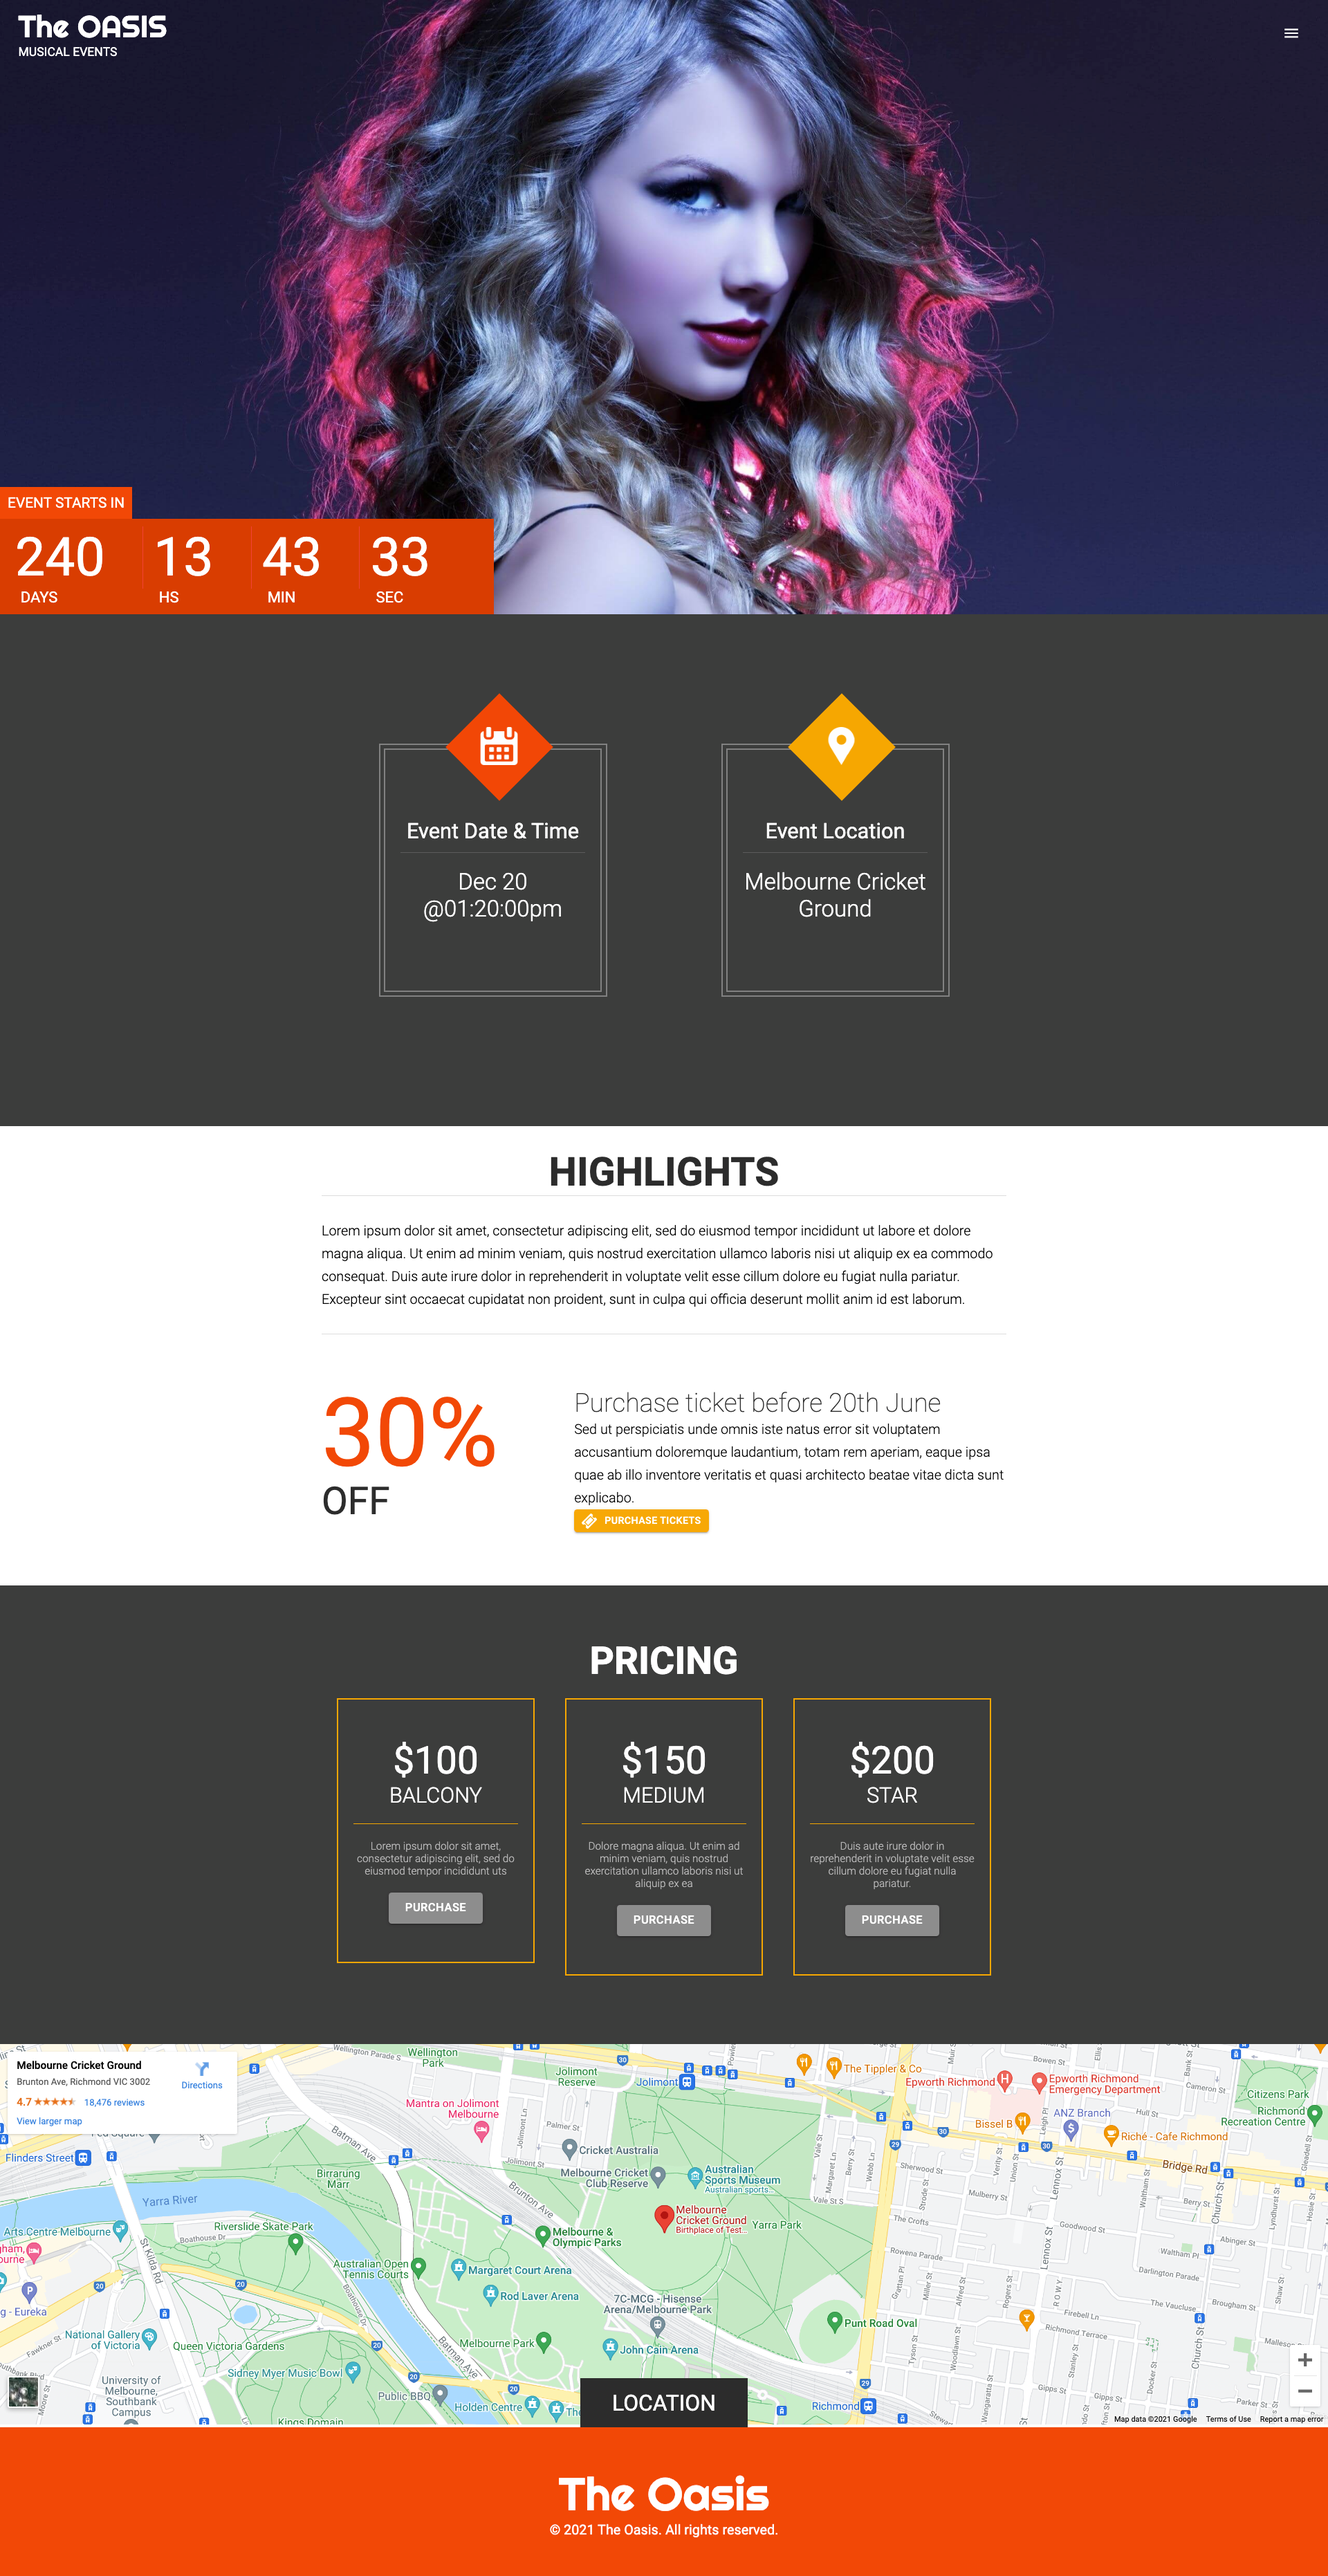
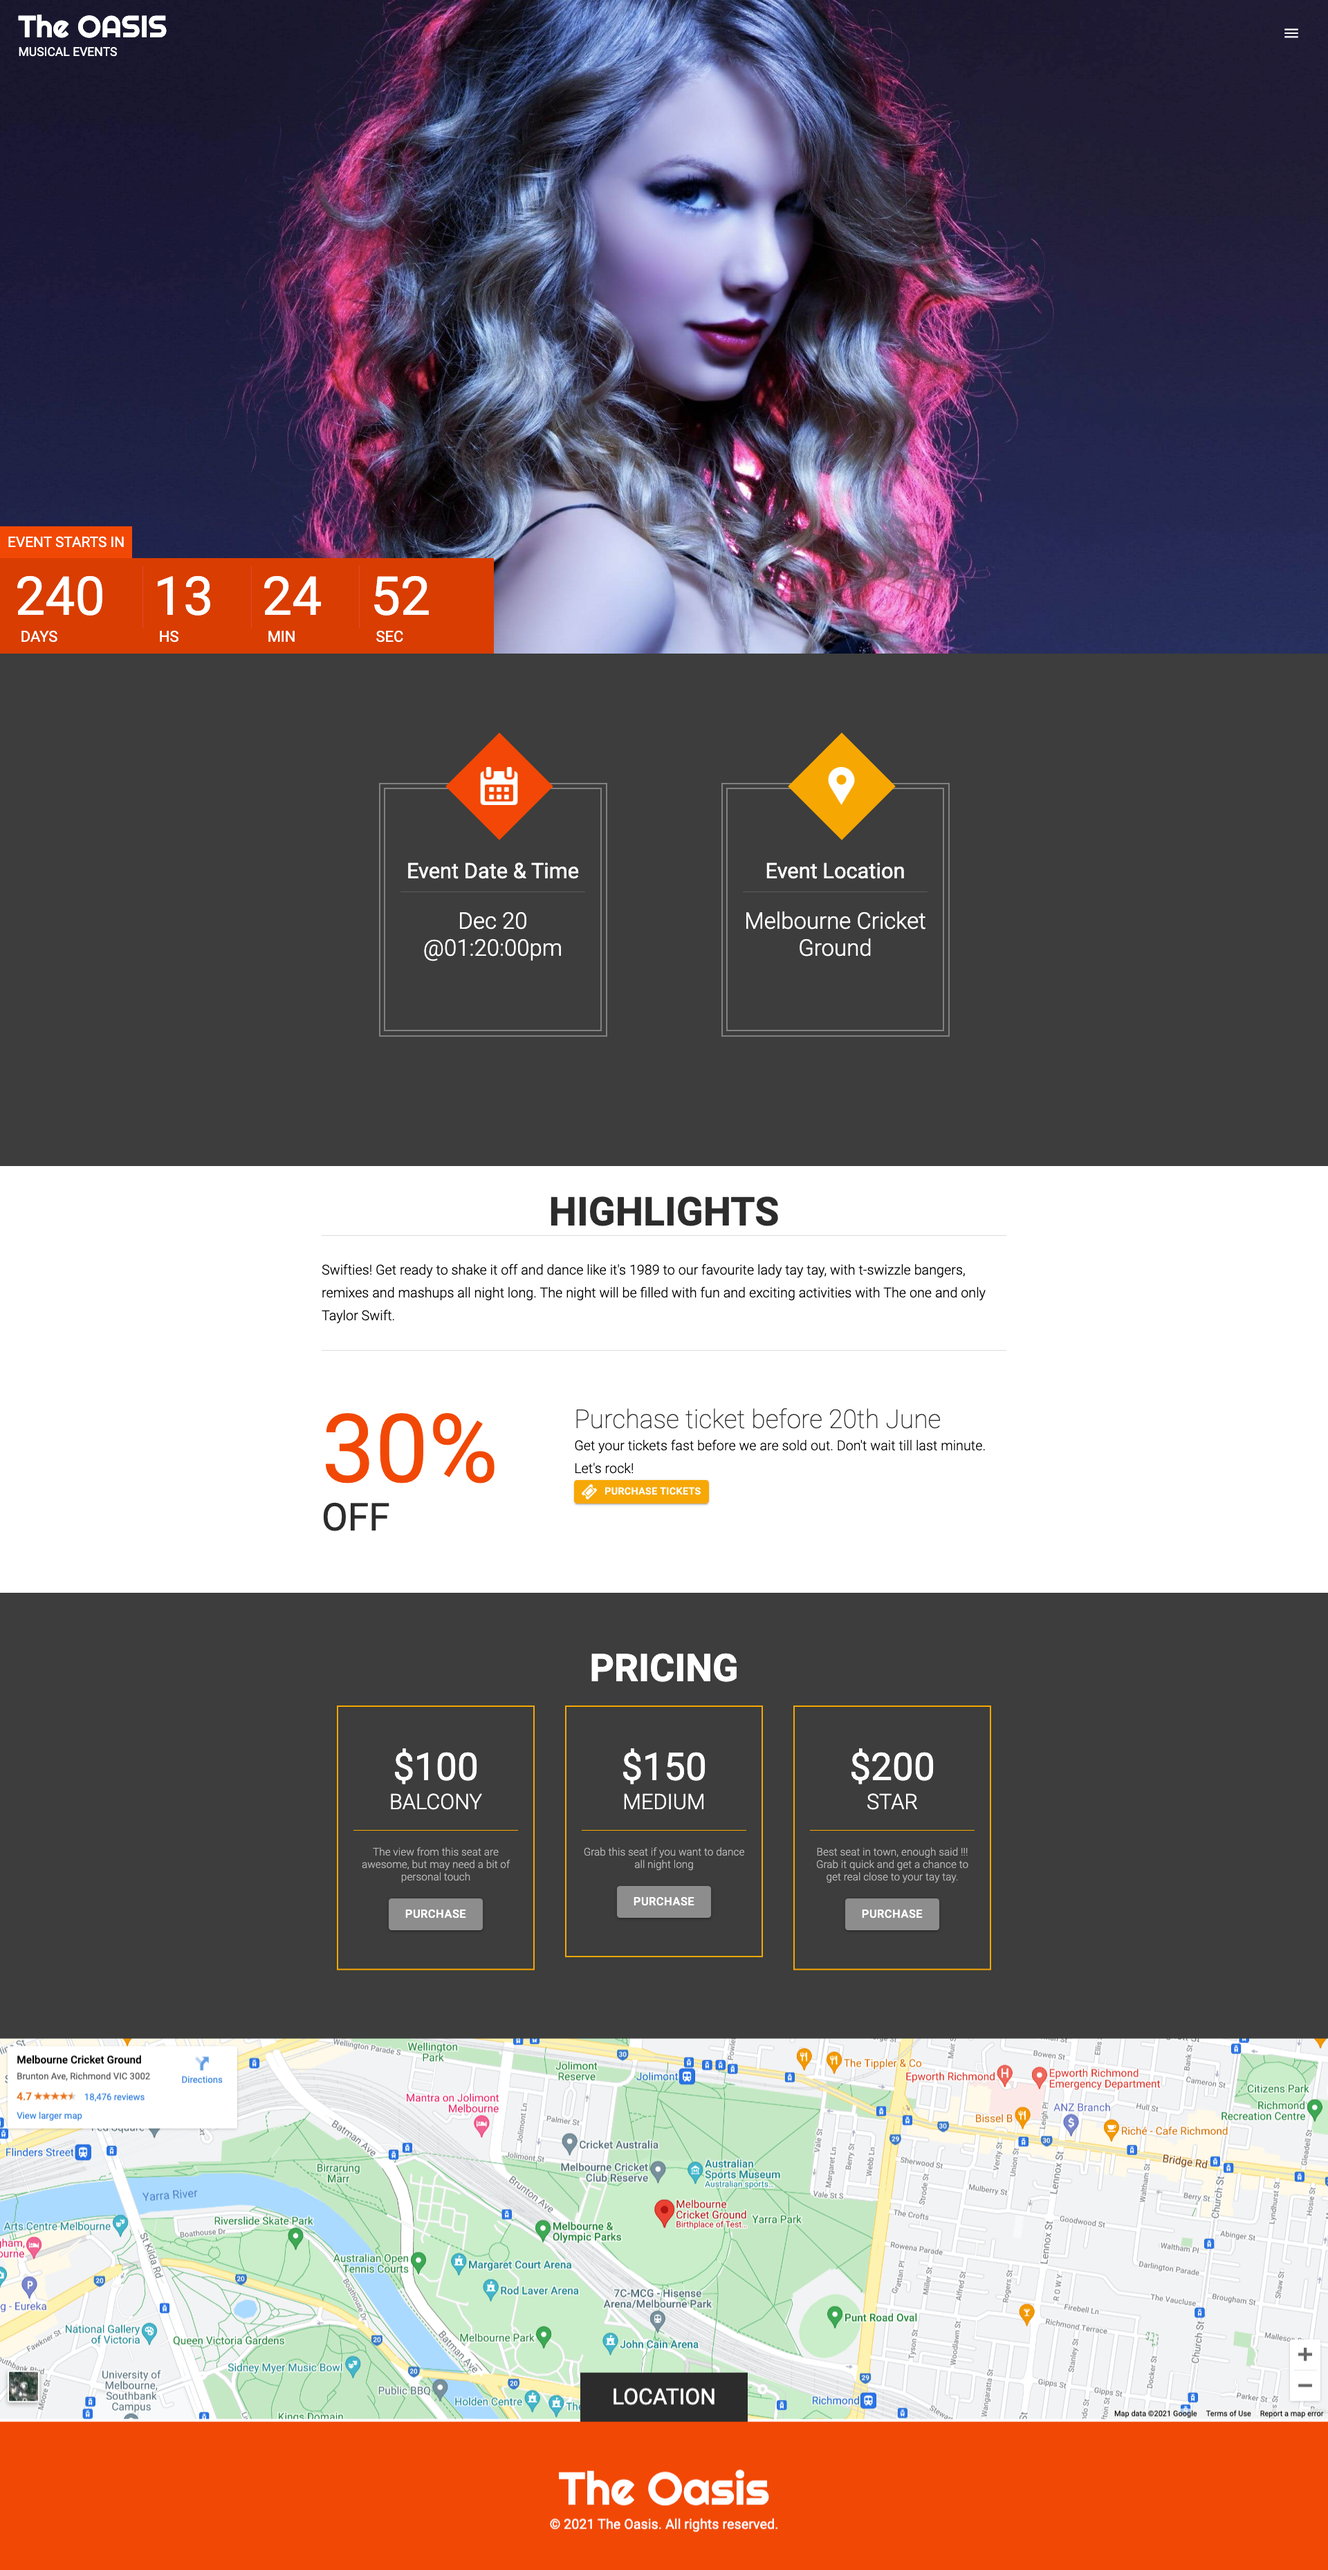
fixing small bugs

diff --git a/src/components/highlights/Description.js b/src/components/highlights/Description.js
@@ -6,13 +6,10 @@ const Description = () => {
       <div className='center_wrapper'>
         <h2>Highlights</h2>
         <div className='highlight_description'>
-          Lorem ipsum dolor sit amet, consectetur adipiscing elit, sed do
-          eiusmod tempor incididunt ut labore et dolore magna aliqua. Ut enim ad
-          minim veniam, quis nostrud exercitation ullamco laboris nisi ut
-          aliquip ex ea commodo consequat. Duis aute irure dolor in
-          reprehenderit in voluptate velit esse cillum dolore eu fugiat nulla
-          pariatur. Excepteur sint occaecat cupidatat non proident, sunt in
-          culpa qui officia deserunt mollit anim id est laborum.
+          Swifties! Get ready to shake it off and dance like it's 1989 to our
+          favourite lady tay tay, with t-swizzle bangers, remixes and mashups
+          all night long. The night will be filled with fun and exciting
+          activities with The one and only Taylor Swift.
         </div>
       </div>
     </Fade>

diff --git a/src/components/pricing/index.js b/src/components/pricing/index.js
@@ -6,9 +6,9 @@ const Princing = () => {
     prices: [100, 150, 200],
     position: ['Balcony', 'Medium', 'Star'],
     desc: [
-      'Lorem ipsum dolor sit amet, consectetur adipiscing elit, sed do eiusmod tempor incididunt uts',
-      'Dolore magna aliqua. Ut enim ad minim veniam, quis nostrud exercitation ullamco laboris nisi ut aliquip ex ea',
-      'Duis aute irure dolor in reprehenderit in voluptate velit esse cillum dolore eu fugiat nulla pariatur.',
+      'The view from this seat are awesome, but may need a bit of personal touch',
+      'Grab this seat if you want to dance all night long',
+      'Best seat in town, enough said !!! Grab it quick and get a chance to get real close to your tay tay.',
     ],
     linkto: ['http://sales.b', 'http://sales/m', 'http://sales.s'],
     delay: [500, 0, 500],

diff --git a/src/components/highlights/Discount.js b/src/components/highlights/Discount.js
@@ -40,10 +40,8 @@ const Discount = () => {
           <div className='discount_description'>
             <h3>Purchase ticket before 20th June</h3>
             <p>
-              Sed ut perspiciatis unde omnis iste natus error sit voluptatem
-              accusantium doloremque laudantium, totam rem aperiam, eaque ipsa
-              quae ab illo inventore veritatis et quasi architecto beatae vitae
-              dicta sunt explicabo.
+              Get your tickets fast before we are sold out. Don't wait till last
+              minute. Let's rock!
             </p>
 
             <MyButton
